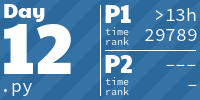
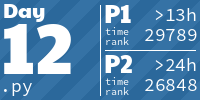
2024 - Day 12

Changed region(s): [[0.72, 0.78, 0.99, 0.93], [0.78, 0.57, 0.99, 0.72]]

diff --git a/ibidem/advent_of_code/y2024/dec12.py b/ibidem/advent_of_code/y2024/dec12.py
@@ -1,7 +1,6 @@
 #!/usr/bin/env python
 from collections import defaultdict
-
-import numpy as np
+from dataclasses import dataclass
 
 from ibidem.advent_of_code.board import Board
 from ibidem.advent_of_code.util import get_input_name
@@ -24,33 +23,50 @@ class Plot:
         return len(self.parcels)
 
     def perimeter(self, perimeters):
-        return sum(perimeters.get(x, y) for x, y in self.parcels)
+        return sum(perimeters.get(x, y).perimeters for x, y in self.parcels)
 
+    def sides(self, perimeters):
+        return sum(perimeters.get(x, y).corners() for x, y in self.parcels)
+
+
+@dataclass
+class Parcel:
+    tl: int = 1
+    tr: int = 1
+    bl: int = 1
+    br: int = 1
+
+    perimeters: int = 4
+
+    def corners(self):
+        return self.tl + self.tr + self.bl + self.br
 
 
 def load(fobj):
     return Board.from_string(fobj.read(), growable=False)
 
-def part1(board: Board):
+
+def solve(board: Board):
     perimeters = Board(size_x=board.size_x + 1, size_y=board.size_y + 1,
-                       do_translate=False, flip=False, fill_value=4,
-                       dtype=np.int_, growable=False)
+                       do_translate=False, flip=False, fill_value=None,
+                       dtype=Parcel, growable=False)
     start_x, start_y = board.size_x, board.size_y
     unclaimed = set()
     for y in range(start_y):
         for x in range(start_x):
             unclaimed.add((x, y))
+            parcel = _get_perimeter_parcel(perimeters, x, y)
             plot_name = board.get(x, y)
             if x + 1 < start_x:
                 right_coord = (x + 1, y)
                 if board.get(*right_coord) == plot_name:
-                    perimeters.set(x, y, perimeters.get(x, y) - 1)
-                    perimeters.set(*right_coord, perimeters.get(*right_coord) - 1)
+                    right_parcel = _get_perimeter_parcel(perimeters, *right_coord)
+                    _join_right(parcel, right_parcel)
             if y + 1 < start_y:
                 down_coord = (x, y + 1)
                 if board.get(*down_coord) == plot_name:
-                    perimeters.set(x, y, perimeters.get(x, y) - 1)
-                    perimeters.set(*down_coord, perimeters.get(*down_coord) - 1)
+                    down_parcel = _get_perimeter_parcel(perimeters, *down_coord)
+                    _join_down(parcel, down_parcel)
 
     plot_name_counters = defaultdict(int)
     plots = []
@@ -64,15 +80,49 @@ def part1(board: Board):
         map_plot(board, parcel, plot, unclaimed)
 
     total_price = 0
+    bulk_price = 0
     for plot in plots:
         perimeter = plot.perimeter(perimeters)
         print(f"Perimeter of {plot.name}: {perimeter}")
+        sides = plot.sides(perimeters)
+        print(f"Sides of {plot.name}: {sides}")
         area = plot.area()
         print(f"Area of {plot.name}: {area}")
         price = perimeter * area
         print(f"Price of fencing for {plot.name}: {price}")
+        discounted_price = sides * area
+        print(f"Discounted price of fencing for {plot.name}: {discounted_price}")
         total_price += price
-    return total_price
+        bulk_price += discounted_price
+    return total_price, bulk_price
+
+
+def _join_down(parcel, down_parcel):
+    parcel.perimeters -= 1
+    down_parcel.perimeters -= 1
+
+    down_parcel.tl = (parcel.bl + down_parcel.tl) % 2
+    parcel.bl = 0
+    down_parcel.tr = (parcel.br + down_parcel.tr) % 2
+    parcel.br = 0
+
+
+def _join_right(parcel, right_parcel):
+    parcel.perimeters -= 1
+    right_parcel.perimeters -= 1
+
+    right_parcel.tl = (parcel.tr + right_parcel.tl) % 2
+    parcel.tr = 0
+    right_parcel.bl = (parcel.br + right_parcel.bl) % 2
+    parcel.br = 0
+
+
+def _get_perimeter_parcel(perimeters, x, y):
+    parcel = perimeters.get(x, y)
+    if parcel is None:
+        parcel = Parcel()
+        perimeters.set(x, y, parcel)
+    return parcel
 
 
 def map_plot(board, parcel, plot, unclaimed):
@@ -83,14 +133,8 @@ def map_plot(board, parcel, plot, unclaimed):
             map_plot(board, (nx, ny), plot, unclaimed)
 
 
-def part2(input):
-    return None
-
-
 if __name__ == "__main__":
     with open(get_input_name(12, 2024)) as fobj:
-        p1_result = part1(load(fobj))
+        p1_result, p2_result = solve(load(fobj))
         print(f"Part 1: {p1_result}")
-    with open(get_input_name(12, 2024)) as fobj:
-        p2_result = part2(load(fobj))
         print(f"Part 2: {p2_result}")

diff --git a/ibidem/advent_of_code/y2024/test/test_dec12.py b/ibidem/advent_of_code/y2024/test/test_dec12.py
@@ -5,25 +5,25 @@ from collections import namedtuple
 import pytest
 
 from ibidem.advent_of_code.board import Board
-from ibidem.advent_of_code.y2024.dec12 import load, part1, part2
+from ibidem.advent_of_code.y2024.dec12 import load, solve
 
 Case = namedtuple('Case', 'part1 part2 input')
 
 TEST_INPUTS = [
-    Case(140, NotImplemented, io.StringIO(textwrap.dedent("""\
+    Case(140, 80, io.StringIO(textwrap.dedent("""\
         AAAA
         BBCD
         BBCC
         EEEC
     """))),
-    Case(772, NotImplemented, io.StringIO(textwrap.dedent("""\
+    Case(772, 436, io.StringIO(textwrap.dedent("""\
         OOOOO
         OXOXO
         OOOOO
         OXOXO
         OOOOO
     """))),
-    Case(1930, NotImplemented, io.StringIO(textwrap.dedent("""\
+    Case(1930, 1206, io.StringIO(textwrap.dedent("""\
         RRRRIICCFF
         RRRRIICCCF
         VVRRRCCFFF
@@ -34,6 +34,21 @@ TEST_INPUTS = [
         MIIIIIJJEE
         MIIISIJEEE
         MMMISSJEEE
+    """))),
+    Case(NotImplemented, 236, io.StringIO(textwrap.dedent("""\
+        EEEEE
+        EXXXX
+        EEEEE
+        EXXXX
+        EEEEE
+    """))),
+    Case(NotImplemented, 368, io.StringIO(textwrap.dedent("""\
+        AAAAAA
+        AAABBA
+        AAABBA
+        ABBAAA
+        ABBAAA
+        AAAAAA
     """))),
 ]
 
@@ -50,11 +65,13 @@ class TestDec12():
 
     def test_load(self, loaded):
         assert isinstance(loaded, Board)
-        
-    def test_part1(self, loaded, case):
-        result = part1(loaded)
-        assert result == case.part1
-        
-    def test_part2(self, loaded, case):
-        result = part2(loaded)
-        assert result == case.part2
+
+    def test_solve1(self, loaded, case):
+        if case.part1 == NotImplemented:
+            pytest.skip()
+        p1_result, _ = solve(loaded)
+        assert p1_result == case.part1
+
+    def test_solve2(self, loaded, case):
+        _, p2_result = solve(loaded)
+        assert p2_result == case.part2
